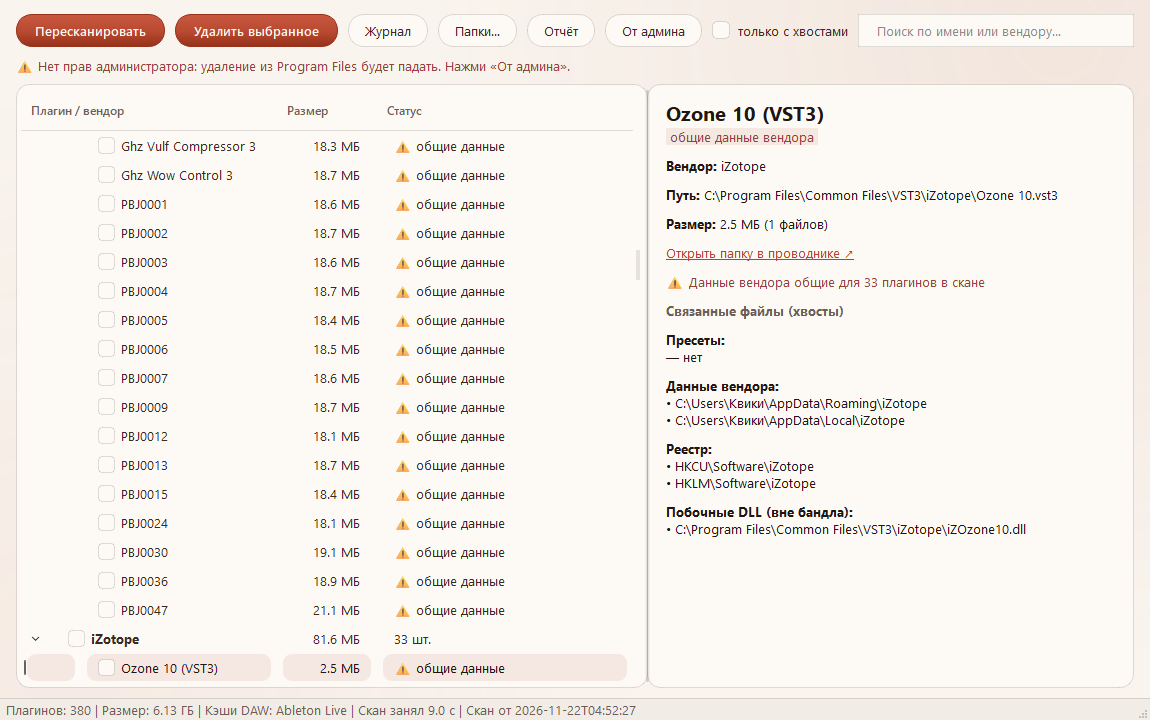
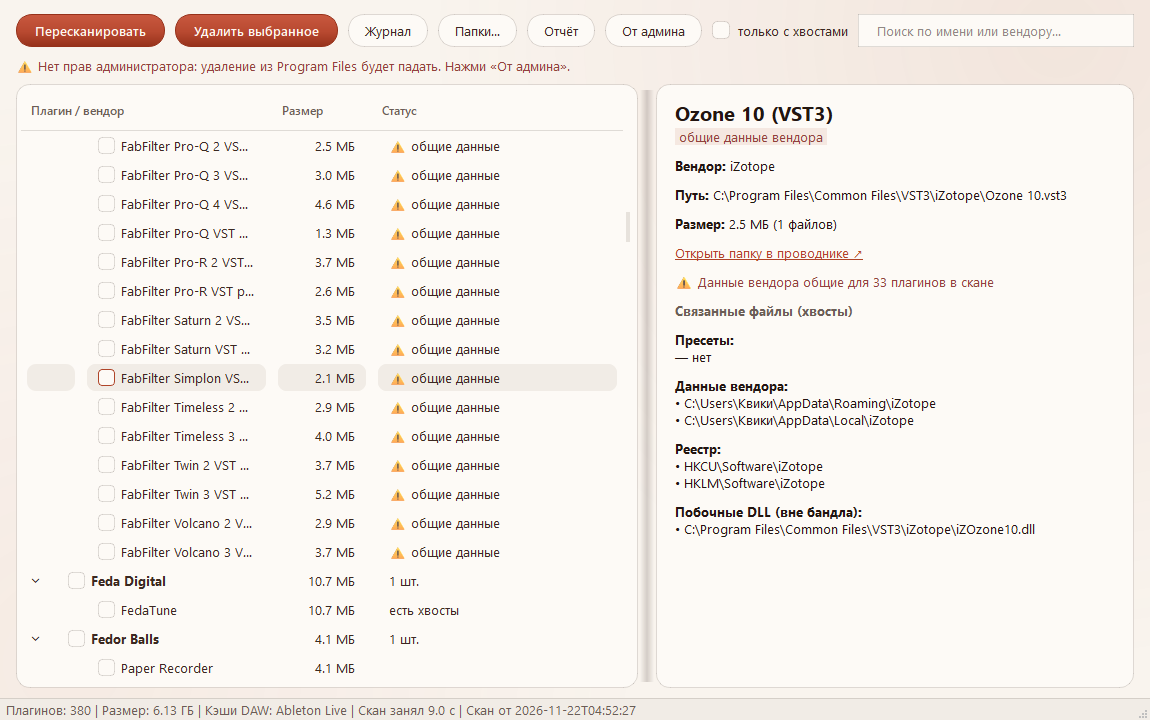
Всегда запуск от админа (манифест + авто-UAC в рантайме); явный зазор панелей через setHandleWidth(14)

diff --git a/vst3manager/ui.py b/vst3manager/ui.py
@@ -99,15 +99,18 @@ def is_admin():
 
 
 def relaunch_as_admin():
-    """Перезапуск с повышением прав (UAC). Работает и для собранного .exe."""
+    """Перезапуск с повышением прав (UAC). Работает и для собранного .exe.
+
+    Возвращает True только если UAC реально подтверждён (ShellExecute > 32)."""
     import ctypes
     if getattr(sys, "frozen", False):
         target, params = sys.executable, ""
     else:
         target, params = sys.executable, f'"{Path(sys.argv[0]).resolve()}"'
     try:
-        ctypes.windll.shell32.ShellExecuteW(None, "runas", target, params, None, 1)
-        return True
+        ret = ctypes.windll.shell32.ShellExecuteW(None, "runas", target,
+                                                  params, None, 1)
+        return int(ret) > 32
     except Exception:
         return False
 
@@ -481,6 +484,7 @@ class MainWindow(QMainWindow):
         split.addWidget(self.tree)
         split.addWidget(self.details)
         split.setSizes([650, 500])
+        split.setHandleWidth(14)  # реальный зазор между карточками (QSS width ненадёжен)
         root.addWidget(split, 1)
 
         self.btn_scan.clicked.connect(self.start_scan)

diff --git a/vst3manager/main.py b/vst3manager/main.py
@@ -95,6 +95,10 @@ def main():
         return 1
     import theme
     import ui
+    # всегда запускаемся от админа: без прав пробуем перезапуститься через UAC;
+    # если пользователь отклонил — продолжаем обычный запуск с жёлтым баннером
+    if not ui.is_admin() and ui.relaunch_as_admin():
+        return 0
     app = QApplication(sys.argv)
     app.setApplicationName("VST3 Manager")
     app.setStyleSheet(theme.APP_QSS)
